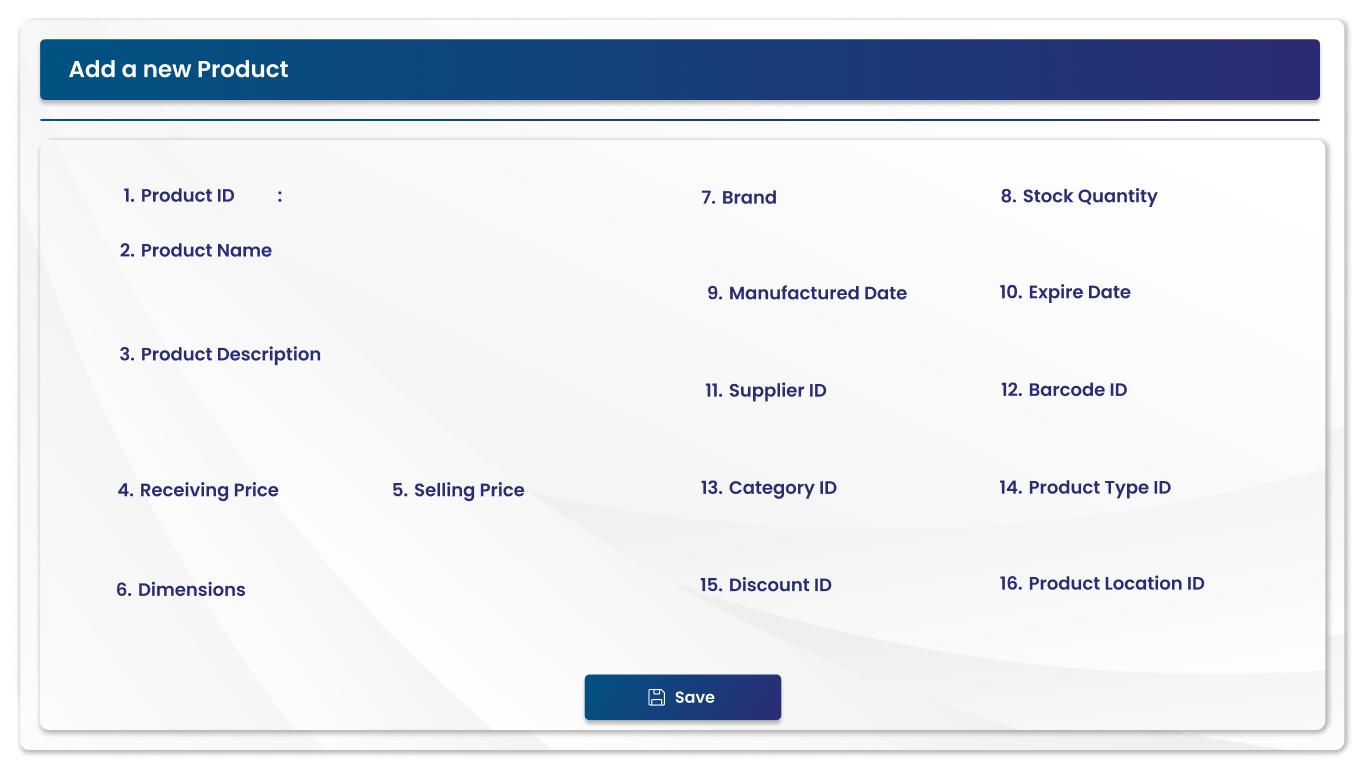
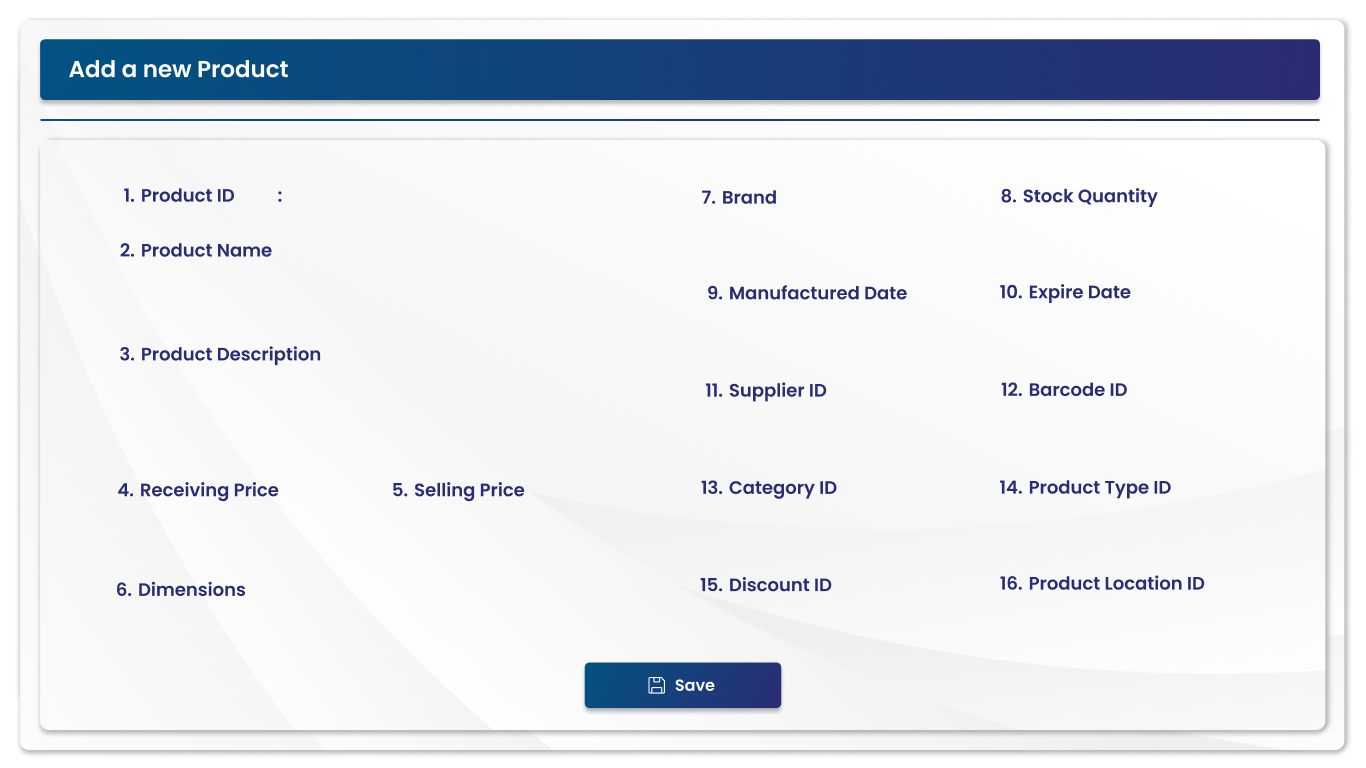
2023-11-26

Changed region(s): [[0.4305, 0.8438, 0.5842, 0.9688]]

diff --git a/src/main/java/com/zx/shopmanagementsystem/ui/AddProduct.java b/src/main/java/com/zx/shopmanagementsystem/ui/AddProduct.java
@@ -161,12 +161,12 @@ public class AddProduct extends javax.swing.JFrame {
                 addProductBtnLblMouseExited(evt);
             }
         });
-        getContentPane().add(addProductBtnLbl, new org.netbeans.lib.awtextra.AbsoluteConstraints(580, 670, 200, 50));
+        getContentPane().add(addProductBtnLbl, new org.netbeans.lib.awtextra.AbsoluteConstraints(580, 660, 200, 50));
 
         head1.setHeaderTextColor("#000000");
         head1.setHeaderTitle("");
         head1.setOpaque(false);
-        getContentPane().add(head1, new org.netbeans.lib.awtextra.AbsoluteConstraints(0, 0, 1280, -1));
+        getContentPane().add(head1, new org.netbeans.lib.awtextra.AbsoluteConstraints(0, 0, 1370, -1));
 
         productIdLbl.setFont(new java.awt.Font("Segoe UI", 1, 14)); // NOI18N
         productIdLbl.setForeground(new java.awt.Color(255, 255, 255));
@@ -175,35 +175,35 @@ public class AddProduct extends javax.swing.JFrame {
 
         sellingPriceTxt.setFont(new java.awt.Font("sansserif", 1, 14)); // NOI18N
         sellingPriceTxt.setPreferredSize(new java.awt.Dimension(139, 50));
-        getContentPane().add(sellingPriceTxt, new org.netbeans.lib.awtextra.AbsoluteConstraints(390, 515, 180, -1));
+        getContentPane().add(sellingPriceTxt, new org.netbeans.lib.awtextra.AbsoluteConstraints(400, 520, 250, 45));
 
         dimentionTxt.setFont(new java.awt.Font("sansserif", 1, 14)); // NOI18N
         dimentionTxt.setPreferredSize(new java.awt.Dimension(139, 50));
-        getContentPane().add(dimentionTxt, new org.netbeans.lib.awtextra.AbsoluteConstraints(130, 620, 290, -1));
+        getContentPane().add(dimentionTxt, new org.netbeans.lib.awtextra.AbsoluteConstraints(130, 620, 250, 45));
 
         stockQuantityTxt.setFont(new java.awt.Font("sansserif", 1, 14)); // NOI18N
         stockQuantityTxt.setPreferredSize(new java.awt.Dimension(139, 50));
-        getContentPane().add(stockQuantityTxt, new org.netbeans.lib.awtextra.AbsoluteConstraints(1000, 220, 180, -1));
+        getContentPane().add(stockQuantityTxt, new org.netbeans.lib.awtextra.AbsoluteConstraints(1000, 220, 250, 45));
 
         productNameTxt.setFont(new java.awt.Font("sansserif", 1, 14)); // NOI18N
         productNameTxt.setPreferredSize(new java.awt.Dimension(139, 50));
-        getContentPane().add(productNameTxt, new org.netbeans.lib.awtextra.AbsoluteConstraints(130, 270, 360, -1));
+        getContentPane().add(productNameTxt, new org.netbeans.lib.awtextra.AbsoluteConstraints(130, 270, 340, 45));
 
         brandTxt.setFont(new java.awt.Font("sansserif", 1, 14)); // NOI18N
         brandTxt.setPreferredSize(new java.awt.Dimension(139, 50));
-        getContentPane().add(brandTxt, new org.netbeans.lib.awtextra.AbsoluteConstraints(700, 220, 180, -1));
+        getContentPane().add(brandTxt, new org.netbeans.lib.awtextra.AbsoluteConstraints(700, 220, 250, 45));
 
         manufactureDateTxt.setFont(new java.awt.Font("sansserif", 1, 14)); // NOI18N
         manufactureDateTxt.setPreferredSize(new java.awt.Dimension(139, 50));
-        getContentPane().add(manufactureDateTxt, new org.netbeans.lib.awtextra.AbsoluteConstraints(700, 310, 190, -1));
+        getContentPane().add(manufactureDateTxt, new org.netbeans.lib.awtextra.AbsoluteConstraints(700, 310, 250, 45));
 
         expireDateTxt.setFont(new java.awt.Font("sansserif", 1, 14)); // NOI18N
         expireDateTxt.setPreferredSize(new java.awt.Dimension(139, 50));
-        getContentPane().add(expireDateTxt, new org.netbeans.lib.awtextra.AbsoluteConstraints(1000, 310, 200, -1));
+        getContentPane().add(expireDateTxt, new org.netbeans.lib.awtextra.AbsoluteConstraints(1000, 310, 250, 45));
 
         recivingPriceTxt.setFont(new java.awt.Font("sansserif", 1, 14)); // NOI18N
         recivingPriceTxt.setPreferredSize(new java.awt.Dimension(139, 50));
-        getContentPane().add(recivingPriceTxt, new org.netbeans.lib.awtextra.AbsoluteConstraints(120, 515, 180, -1));
+        getContentPane().add(recivingPriceTxt, new org.netbeans.lib.awtextra.AbsoluteConstraints(130, 520, 250, 45));
 
         barcodeScannerBtnLbl.setIcon(new javax.swing.ImageIcon("C:\\ShopManagementSystem\\src\\main\\java\\com\\zx\\shopmanagementsystem\\icons\\SearchBardcodeIcon.png")); // NOI18N
         barcodeScannerBtnLbl.setCursor(new java.awt.Cursor(java.awt.Cursor.HAND_CURSOR));
@@ -212,27 +212,27 @@ public class AddProduct extends javax.swing.JFrame {
                 barcodeScannerBtnLblMouseClicked(evt);
             }
         });
-        getContentPane().add(barcodeScannerBtnLbl, new org.netbeans.lib.awtextra.AbsoluteConstraints(1195, 415, 40, 40));
+        getContentPane().add(barcodeScannerBtnLbl, new org.netbeans.lib.awtextra.AbsoluteConstraints(1260, 420, 32, 30));
 
         productLocationIdCombo.setFont(new java.awt.Font("Segoe UI", 1, 14)); // NOI18N
         productLocationIdCombo.setPreferredSize(new java.awt.Dimension(139, 50));
-        getContentPane().add(productLocationIdCombo, new org.netbeans.lib.awtextra.AbsoluteConstraints(1000, 600, 190, -1));
+        getContentPane().add(productLocationIdCombo, new org.netbeans.lib.awtextra.AbsoluteConstraints(1000, 600, 250, 45));
 
         productTypeIdCombo.setFont(new java.awt.Font("Segoe UI", 1, 14)); // NOI18N
         productTypeIdCombo.setPreferredSize(new java.awt.Dimension(139, 50));
-        getContentPane().add(productTypeIdCombo, new org.netbeans.lib.awtextra.AbsoluteConstraints(1000, 510, 190, -1));
+        getContentPane().add(productTypeIdCombo, new org.netbeans.lib.awtextra.AbsoluteConstraints(1000, 510, 250, 45));
 
         discountIdCombo.setFont(new java.awt.Font("Segoe UI", 1, 14)); // NOI18N
         discountIdCombo.setPreferredSize(new java.awt.Dimension(139, 50));
-        getContentPane().add(discountIdCombo, new org.netbeans.lib.awtextra.AbsoluteConstraints(700, 600, 190, -1));
+        getContentPane().add(discountIdCombo, new org.netbeans.lib.awtextra.AbsoluteConstraints(700, 600, 250, 45));
 
         categoryIdCombo.setFont(new java.awt.Font("Segoe UI", 1, 14)); // NOI18N
         categoryIdCombo.setPreferredSize(new java.awt.Dimension(139, 50));
-        getContentPane().add(categoryIdCombo, new org.netbeans.lib.awtextra.AbsoluteConstraints(700, 510, 190, -1));
+        getContentPane().add(categoryIdCombo, new org.netbeans.lib.awtextra.AbsoluteConstraints(700, 510, 250, 45));
 
         supplierIdCombo.setFont(new java.awt.Font("Segoe UI", 1, 14)); // NOI18N
         supplierIdCombo.setPreferredSize(new java.awt.Dimension(139, 50));
-        getContentPane().add(supplierIdCombo, new org.netbeans.lib.awtextra.AbsoluteConstraints(700, 410, 190, -1));
+        getContentPane().add(supplierIdCombo, new org.netbeans.lib.awtextra.AbsoluteConstraints(700, 410, 250, 45));
 
         barcodeCombo.setFont(new java.awt.Font("Segoe UI", 1, 14)); // NOI18N
         barcodeCombo.setPreferredSize(new java.awt.Dimension(139, 50));
@@ -241,7 +241,7 @@ public class AddProduct extends javax.swing.JFrame {
                 barcodeComboActionPerformed(evt);
             }
         });
-        getContentPane().add(barcodeCombo, new org.netbeans.lib.awtextra.AbsoluteConstraints(1000, 410, 190, -1));
+        getContentPane().add(barcodeCombo, new org.netbeans.lib.awtextra.AbsoluteConstraints(1000, 410, 250, 45));
 
         panelBorder1.setBackground(new java.awt.Color(255, 255, 255));
 
@@ -271,7 +271,7 @@ public class AddProduct extends javax.swing.JFrame {
         getContentPane().add(panelBorder1, new org.netbeans.lib.awtextra.AbsoluteConstraints(120, 365, 360, -1));
 
         iconLbl.setIcon(new javax.swing.ImageIcon("C:\\ShopManagementSystem\\src\\main\\java\\com\\zx\\shopmanagementsystem\\images\\Add_new_Product.png")); // NOI18N
-        getContentPane().add(iconLbl, new org.netbeans.lib.awtextra.AbsoluteConstraints(0, 0, -1, -1));
+        getContentPane().add(iconLbl, new org.netbeans.lib.awtextra.AbsoluteConstraints(0, 0, 1366, -1));
 
         pack();
         setLocationRelativeTo(null);

diff --git a/src/main/java/com/zx/shopmanagementsystem/ui/productDetails.java b/src/main/java/com/zx/shopmanagementsystem/ui/productDetails.java
@@ -130,8 +130,8 @@ public class productDetails extends javax.swing.JFrame {
         discountIdCombo = new com.zx.shopmanagementsystem.components.ComboBoxSuggestion();
         categoryIdCombo = new com.zx.shopmanagementsystem.components.ComboBoxSuggestion();
         supplierIdCombo = new com.zx.shopmanagementsystem.components.ComboBoxSuggestion();
-        barcodeCombo = new com.zx.shopmanagementsystem.components.ComboBoxSuggestion();
         barcodeScannerLbl = new javax.swing.JLabel();
+        barcodeCombo = new com.zx.shopmanagementsystem.components.ComboBoxSuggestion();
         panelBorder1 = new com.raven.swing.PanelBorder();
         jScrollPane1 = new javax.swing.JScrollPane();
         productDescriptionTxt = new javax.swing.JTextArea();
@@ -184,7 +184,7 @@ public class productDetails extends javax.swing.JFrame {
 
         stockQuantityTxt.setFont(new java.awt.Font("sansserif", 1, 14)); // NOI18N
         stockQuantityTxt.setPreferredSize(new java.awt.Dimension(139, 50));
-        getContentPane().add(stockQuantityTxt, new org.netbeans.lib.awtextra.AbsoluteConstraints(1000, 220, 190, -1));
+        getContentPane().add(stockQuantityTxt, new org.netbeans.lib.awtextra.AbsoluteConstraints(1000, 220, 250, -1));
 
         productNameTxt.setFont(new java.awt.Font("sansserif", 1, 14)); // NOI18N
         productNameTxt.setPreferredSize(new java.awt.Dimension(139, 50));
@@ -192,15 +192,15 @@ public class productDetails extends javax.swing.JFrame {
 
         brandTxt.setFont(new java.awt.Font("sansserif", 1, 14)); // NOI18N
         brandTxt.setPreferredSize(new java.awt.Dimension(139, 50));
-        getContentPane().add(brandTxt, new org.netbeans.lib.awtextra.AbsoluteConstraints(700, 220, 180, -1));
+        getContentPane().add(brandTxt, new org.netbeans.lib.awtextra.AbsoluteConstraints(700, 220, 250, -1));
 
         manufactureDateTxt.setFont(new java.awt.Font("sansserif", 1, 14)); // NOI18N
         manufactureDateTxt.setPreferredSize(new java.awt.Dimension(139, 50));
-        getContentPane().add(manufactureDateTxt, new org.netbeans.lib.awtextra.AbsoluteConstraints(700, 310, 190, -1));
+        getContentPane().add(manufactureDateTxt, new org.netbeans.lib.awtextra.AbsoluteConstraints(700, 310, 250, -1));
 
         expireDateTxt.setFont(new java.awt.Font("sansserif", 1, 14)); // NOI18N
         expireDateTxt.setPreferredSize(new java.awt.Dimension(139, 50));
-        getContentPane().add(expireDateTxt, new org.netbeans.lib.awtextra.AbsoluteConstraints(1000, 310, 200, -1));
+        getContentPane().add(expireDateTxt, new org.netbeans.lib.awtextra.AbsoluteConstraints(1000, 310, 250, -1));
 
         recivingPriceTxt.setFont(new java.awt.Font("sansserif", 1, 14)); // NOI18N
         recivingPriceTxt.setPreferredSize(new java.awt.Dimension(139, 50));
@@ -208,30 +208,30 @@ public class productDetails extends javax.swing.JFrame {
 
         productLocationIdCombo.setFont(new java.awt.Font("Segoe UI", 1, 14)); // NOI18N
         productLocationIdCombo.setPreferredSize(new java.awt.Dimension(139, 50));
-        getContentPane().add(productLocationIdCombo, new org.netbeans.lib.awtextra.AbsoluteConstraints(1000, 600, 190, -1));
+        getContentPane().add(productLocationIdCombo, new org.netbeans.lib.awtextra.AbsoluteConstraints(1000, 600, 250, -1));
 
         productTypeIdCombo.setFont(new java.awt.Font("Segoe UI", 1, 14)); // NOI18N
         productTypeIdCombo.setPreferredSize(new java.awt.Dimension(139, 50));
-        getContentPane().add(productTypeIdCombo, new org.netbeans.lib.awtextra.AbsoluteConstraints(1000, 510, 190, -1));
+        getContentPane().add(productTypeIdCombo, new org.netbeans.lib.awtextra.AbsoluteConstraints(1000, 510, 250, -1));
 
         discountIdCombo.setFont(new java.awt.Font("Segoe UI", 1, 14)); // NOI18N
         discountIdCombo.setPreferredSize(new java.awt.Dimension(139, 50));
-        getContentPane().add(discountIdCombo, new org.netbeans.lib.awtextra.AbsoluteConstraints(700, 600, 190, -1));
+        getContentPane().add(discountIdCombo, new org.netbeans.lib.awtextra.AbsoluteConstraints(700, 600, 250, -1));
 
         categoryIdCombo.setFont(new java.awt.Font("Segoe UI", 1, 14)); // NOI18N
         categoryIdCombo.setPreferredSize(new java.awt.Dimension(139, 50));
-        getContentPane().add(categoryIdCombo, new org.netbeans.lib.awtextra.AbsoluteConstraints(700, 510, 190, -1));
+        getContentPane().add(categoryIdCombo, new org.netbeans.lib.awtextra.AbsoluteConstraints(700, 510, 250, -1));
 
         supplierIdCombo.setFont(new java.awt.Font("Segoe UI", 1, 14)); // NOI18N
         supplierIdCombo.setPreferredSize(new java.awt.Dimension(139, 50));
-        getContentPane().add(supplierIdCombo, new org.netbeans.lib.awtextra.AbsoluteConstraints(700, 410, 190, -1));
+        getContentPane().add(supplierIdCombo, new org.netbeans.lib.awtextra.AbsoluteConstraints(700, 410, 250, -1));
+
+        barcodeScannerLbl.setIcon(new javax.swing.ImageIcon("C:\\ShopManagementSystem\\src\\main\\java\\com\\zx\\shopmanagementsystem\\icons\\SearchBardcodeIcon.png")); // NOI18N
+        getContentPane().add(barcodeScannerLbl, new org.netbeans.lib.awtextra.AbsoluteConstraints(1260, 410, 40, 40));
 
         barcodeCombo.setFont(new java.awt.Font("Segoe UI", 1, 14)); // NOI18N
         barcodeCombo.setPreferredSize(new java.awt.Dimension(139, 50));
-        getContentPane().add(barcodeCombo, new org.netbeans.lib.awtextra.AbsoluteConstraints(1000, 410, 190, -1));
-
-        barcodeScannerLbl.setIcon(new javax.swing.ImageIcon("C:\\ShopManagementSystem\\src\\main\\java\\com\\zx\\shopmanagementsystem\\icons\\SearchBardcodeIcon.png")); // NOI18N
-        getContentPane().add(barcodeScannerLbl, new org.netbeans.lib.awtextra.AbsoluteConstraints(1195, 415, 40, 40));
+        getContentPane().add(barcodeCombo, new org.netbeans.lib.awtextra.AbsoluteConstraints(1000, 410, 250, -1));
 
         panelBorder1.setBackground(new java.awt.Color(255, 255, 255));
 

diff --git a/src/main/java/com/zx/shopmanagementsystem/ui/ForgotPassword.java b/src/main/java/com/zx/shopmanagementsystem/ui/ForgotPassword.java
@@ -55,11 +55,12 @@ public class ForgotPassword extends javax.swing.JFrame {
         newPasswordTxt = new com.zx.shopmanagementsystem.components.RoundedPassword();
         updatePasswordLbl = new javax.swing.JLabel();
         backButtonLbl = new javax.swing.JLabel();
-        head1 = new com.zx.shopmanagementsystem.components.Head();
+        head1 = new com.zx.shopmanagementsystem.components.Head_Dark_BG();
         iconLbl = new javax.swing.JLabel();
 
         setDefaultCloseOperation(javax.swing.WindowConstants.EXIT_ON_CLOSE);
         setUndecorated(true);
+        setPreferredSize(new java.awt.Dimension(1366, 768));
         setResizable(false);
         getContentPane().setLayout(new org.netbeans.lib.awtextra.AbsoluteLayout());
 
@@ -77,11 +78,11 @@ public class ForgotPassword extends javax.swing.JFrame {
                 searchIconMouseExited(evt);
             }
         });
-        getContentPane().add(searchIcon, new org.netbeans.lib.awtextra.AbsoluteConstraints(1180, 295, 40, 40));
+        getContentPane().add(searchIcon, new org.netbeans.lib.awtextra.AbsoluteConstraints(1160, 290, 40, 40));
 
-        usernameTxt.setFont(new java.awt.Font("sansserif", 1, 14)); // NOI18N
+        usernameTxt.setFont(new java.awt.Font("Poppins Medium", 0, 13)); // NOI18N
         usernameTxt.setHintText("Enter your username");
-        getContentPane().add(usernameTxt, new org.netbeans.lib.awtextra.AbsoluteConstraints(840, 290, 390, 50));
+        getContentPane().add(usernameTxt, new org.netbeans.lib.awtextra.AbsoluteConstraints(840, 290, 370, 45));
 
         confirmPasswordLbl.setIcon(new javax.swing.ImageIcon("C:\\ShopManagementSystem\\src\\main\\java\\com\\zx\\shopmanagementsystem\\icons\\HidePassword.png")); // NOI18N
         confirmPasswordLbl.setCursor(new java.awt.Cursor(java.awt.Cursor.HAND_CURSOR));
@@ -96,7 +97,7 @@ public class ForgotPassword extends javax.swing.JFrame {
                 confirmPasswordLblMouseExited(evt);
             }
         });
-        getContentPane().add(confirmPasswordLbl, new org.netbeans.lib.awtextra.AbsoluteConstraints(1180, 460, -1, 30));
+        getContentPane().add(confirmPasswordLbl, new org.netbeans.lib.awtextra.AbsoluteConstraints(1160, 450, -1, 30));
 
         newPasswordLbl.setIcon(new javax.swing.ImageIcon("C:\\ShopManagementSystem\\src\\main\\java\\com\\zx\\shopmanagementsystem\\icons\\HidePassword.png")); // NOI18N
         newPasswordLbl.setCursor(new java.awt.Cursor(java.awt.Cursor.HAND_CURSOR));
@@ -111,15 +112,15 @@ public class ForgotPassword extends javax.swing.JFrame {
                 newPasswordLblMouseExited(evt);
             }
         });
-        getContentPane().add(newPasswordLbl, new org.netbeans.lib.awtextra.AbsoluteConstraints(1180, 375, -1, 30));
+        getContentPane().add(newPasswordLbl, new org.netbeans.lib.awtextra.AbsoluteConstraints(1160, 370, -1, 30));
 
-        confirmPasswordTxt.setFont(new java.awt.Font("sansserif", 1, 14)); // NOI18N
-        confirmPasswordTxt.setHintText("Confirm Password");
-        getContentPane().add(confirmPasswordTxt, new org.netbeans.lib.awtextra.AbsoluteConstraints(840, 450, 390, 50));
+        confirmPasswordTxt.setFont(new java.awt.Font("Poppins Medium", 0, 13)); // NOI18N
+        confirmPasswordTxt.setHintText("Retype Password");
+        getContentPane().add(confirmPasswordTxt, new org.netbeans.lib.awtextra.AbsoluteConstraints(840, 445, 370, 45));
 
-        newPasswordTxt.setFont(new java.awt.Font("sansserif", 1, 14)); // NOI18N
+        newPasswordTxt.setFont(new java.awt.Font("Poppins Medium", 0, 13)); // NOI18N
         newPasswordTxt.setHintText("New Password");
-        getContentPane().add(newPasswordTxt, new org.netbeans.lib.awtextra.AbsoluteConstraints(840, 365, 390, 50));
+        getContentPane().add(newPasswordTxt, new org.netbeans.lib.awtextra.AbsoluteConstraints(840, 365, 370, 45));
 
         updatePasswordLbl.setCursor(new java.awt.Cursor(java.awt.Cursor.HAND_CURSOR));
         updatePasswordLbl.addMouseListener(new java.awt.event.MouseAdapter() {
@@ -143,11 +144,11 @@ public class ForgotPassword extends javax.swing.JFrame {
         });
         getContentPane().add(backButtonLbl, new org.netbeans.lib.awtextra.AbsoluteConstraints(1060, 570, 70, 15));
 
-        head1.setHeaderTitle("");
         head1.setOpaque(false);
         getContentPane().add(head1, new org.netbeans.lib.awtextra.AbsoluteConstraints(0, 0, 1370, -1));
 
         iconLbl.setIcon(new javax.swing.ImageIcon("C:\\ShopManagementSystem\\src\\main\\java\\com\\zx\\shopmanagementsystem\\images\\Forgot_Password.png")); // NOI18N
+        iconLbl.setPreferredSize(new java.awt.Dimension(1366, 768));
         getContentPane().add(iconLbl, new org.netbeans.lib.awtextra.AbsoluteConstraints(0, 0, -1, -1));
 
         pack();
@@ -156,7 +157,7 @@ public class ForgotPassword extends javax.swing.JFrame {
 
     private void searchIconMouseEntered(java.awt.event.MouseEvent evt) {//GEN-FIRST:event_searchIconMouseEntered
         // TODO add your handling code here:
-        func.iconSetter(searchIcon, il.searchIconAnimated);
+        //func.iconSetter(searchIcon, il.searchIconAnimated);
     }//GEN-LAST:event_searchIconMouseEntered
 
     private void searchIconMouseExited(java.awt.event.MouseEvent evt) {//GEN-FIRST:event_searchIconMouseExited
@@ -325,7 +326,7 @@ public class ForgotPassword extends javax.swing.JFrame {
     private javax.swing.JLabel backButtonLbl;
     private javax.swing.JLabel confirmPasswordLbl;
     private com.zx.shopmanagementsystem.components.RoundedPassword confirmPasswordTxt;
-    private com.zx.shopmanagementsystem.components.Head head1;
+    private com.zx.shopmanagementsystem.components.Head_Dark_BG head1;
     private javax.swing.JLabel iconLbl;
     private javax.swing.JLabel newPasswordLbl;
     private com.zx.shopmanagementsystem.components.RoundedPassword newPasswordTxt;

diff --git a/src/main/java/com/zx/shopmanagementsystem/components/Head_Dark_BG.java b/src/main/java/com/zx/shopmanagementsystem/components/Head_Dark_BG.java
@@ -13,7 +13,7 @@ import javax.swing.JFrame;
  *
  * @author User
  */
-public class Head extends javax.swing.JPanel {
+public class Head_Dark_BG extends javax.swing.JPanel {
 
     /**
      * Creates new form Head
@@ -24,7 +24,7 @@ public class Head extends javax.swing.JPanel {
         this.frame = fr;
     }
 
-    public Head() {
+    public Head_Dark_BG() {
         initComponents();
 
     }
@@ -73,7 +73,7 @@ public class Head extends javax.swing.JPanel {
             }
         });
 
-        closeLbl.setIcon(new javax.swing.ImageIcon("C:\\ShopManagementSystem\\src\\main\\java\\com\\zx\\shopmanagementsystem\\icons\\CloseBlue.png")); // NOI18N
+        closeLbl.setIcon(new javax.swing.ImageIcon("C:\\ShopManagementSystem\\src\\main\\java\\com\\zx\\shopmanagementsystem\\icons\\Close_Black.png")); // NOI18N
         closeLbl.addMouseListener(new java.awt.event.MouseAdapter() {
             public void mouseClicked(java.awt.event.MouseEvent evt) {
                 closeLblMouseClicked(evt);
@@ -86,7 +86,7 @@ public class Head extends javax.swing.JPanel {
             }
         });
 
-        minimiseLbl.setIcon(new javax.swing.ImageIcon("C:\\ShopManagementSystem\\src\\main\\java\\com\\zx\\shopmanagementsystem\\icons\\MinimizeIconBlue.png")); // NOI18N
+        minimiseLbl.setIcon(new javax.swing.ImageIcon("C:\\ShopManagementSystem\\src\\main\\java\\com\\zx\\shopmanagementsystem\\icons\\Minimise_Black.png")); // NOI18N
         minimiseLbl.addMouseListener(new java.awt.event.MouseAdapter() {
             public void mouseClicked(java.awt.event.MouseEvent evt) {
                 minimiseLblMouseClicked(evt);
@@ -127,7 +127,7 @@ public class Head extends javax.swing.JPanel {
 
     private void closeLblMouseExited(java.awt.event.MouseEvent evt) {//GEN-FIRST:event_closeLblMouseExited
         // TODO add your handling code here:
-        func.iconSetter(closeLbl, il.CloseBlue);
+        func.iconSetter(closeLbl, il.closeBlackIcon);
     }//GEN-LAST:event_closeLblMouseExited
 
     private void closeLblMouseClicked(java.awt.event.MouseEvent evt) {//GEN-FIRST:event_closeLblMouseClicked
@@ -142,7 +142,7 @@ public class Head extends javax.swing.JPanel {
 
     private void minimiseLblMouseExited(java.awt.event.MouseEvent evt) {//GEN-FIRST:event_minimiseLblMouseExited
         // TODO add your handling code here:
-        func.iconSetter(minimiseLbl, il.MinimizeIconBlue);
+        func.iconSetter(minimiseLbl, il.minimiseBlackIcon);
     }//GEN-LAST:event_minimiseLblMouseExited
 
     private void minimiseLblMouseClicked(java.awt.event.MouseEvent evt) {//GEN-FIRST:event_minimiseLblMouseClicked

diff --git a/src/main/java/com/zx/shopmanagementsystem/ui/Login.java b/src/main/java/com/zx/shopmanagementsystem/ui/Login.java
@@ -28,7 +28,7 @@ public class Login extends javax.swing.JFrame {
         initComponents();
         setIconImage(Toolkit.getDefaultToolkit().getImage(il.logo));
         head1.setOpaque(false);
-        head1.setHeaderTitle("Login");
+        //head1.setHeaderTitle("Login");
         head1.setFrame(Login.this);
 
     }
@@ -74,7 +74,7 @@ public class Login extends javax.swing.JFrame {
                 showPasswordLblMouseExited(evt);
             }
         });
-        getContentPane().add(showPasswordLbl, new org.netbeans.lib.awtextra.AbsoluteConstraints(470, 440, -1, 30));
+        getContentPane().add(showPasswordLbl, new org.netbeans.lib.awtextra.AbsoluteConstraints(480, 437, -1, 30));
 
         loginLbl.setCursor(new java.awt.Cursor(java.awt.Cursor.HAND_CURSOR));
         loginLbl.addMouseListener(new java.awt.event.MouseAdapter() {
@@ -98,12 +98,12 @@ public class Login extends javax.swing.JFrame {
         });
         getContentPane().add(forgotPasswordLbl, new org.netbeans.lib.awtextra.AbsoluteConstraints(150, 490, 100, 20));
 
-        usernameTxt.setFont(new java.awt.Font("sansserif", 1, 14)); // NOI18N
+        usernameTxt.setFont(new java.awt.Font("Poppins Medium", 0, 13)); // NOI18N
         usernameTxt.setHintText("Enter Username");
-        getContentPane().add(usernameTxt, new org.netbeans.lib.awtextra.AbsoluteConstraints(150, 350, 370, 50));
+        getContentPane().add(usernameTxt, new org.netbeans.lib.awtextra.AbsoluteConstraints(150, 350, 380, 45));
 
-        passwordTxt.setFont(new java.awt.Font("sansserif", 1, 14)); // NOI18N
-        getContentPane().add(passwordTxt, new org.netbeans.lib.awtextra.AbsoluteConstraints(150, 430, 370, 50));
+        passwordTxt.setFont(new java.awt.Font("Poppins Medium", 0, 13)); // NOI18N
+        getContentPane().add(passwordTxt, new org.netbeans.lib.awtextra.AbsoluteConstraints(150, 430, 380, 45));
 
         head1.setHeaderTextColor("#FFFFFF");
         head1.setHeaderTitle("");

diff --git a/src/main/java/com/zx/shopmanagementsystem/assests/IconLocation.java b/src/main/java/com/zx/shopmanagementsystem/assests/IconLocation.java
@@ -126,5 +126,6 @@ public class IconLocation {
     public String SettingsMenuWhiteBtn = "/C:/ShopManagementSystem/src/main/java/com/zx/shopmanagementsystem/icons/SettingsMenuWhiteBtn.png";
     public String AddNewDebtPurpleIcon = "/C:/ShopManagementSystem/src/main/java/com/zx/shopmanagementsystem/icons/AddNewDebtPurpleIcon.png";
     public String AddNewDebtWhiteIcon = "/C:/ShopManagementSystem/src/main/java/com/zx/shopmanagementsystem/icons/SettingsMenuWhiteBtn.png";
-
+    public String MinimizeIconBlue = "/C:/ShopManagementSystem/src/main/java/com/zx/shopmanagementsystem/icons/MinimizeIconBlue.png";
+    public String CloseBlue = "/C:/ShopManagementSystem/src/main/java/com/zx/shopmanagementsystem/icons/CloseBlue.png";
 }

diff --git a/src/main/java/com/zx/shopmanagementsystem/notifications/MessageDialog.java b/src/main/java/com/zx/shopmanagementsystem/notifications/MessageDialog.java
@@ -87,7 +87,7 @@ public class MessageDialog extends javax.swing.JDialog {
                         .addPreferredGap(javax.swing.LayoutStyle.ComponentPlacement.RELATED, 8, Short.MAX_VALUE)))
                 .addContainerGap())
             .addGroup(panelBorder1Layout.createSequentialGroup()
-                .addGap(126, 126, 126)
+                .addGap(133, 133, 133)
                 .addComponent(okBtnLbl)
                 .addContainerGap(javax.swing.GroupLayout.DEFAULT_SIZE, Short.MAX_VALUE))
         );
